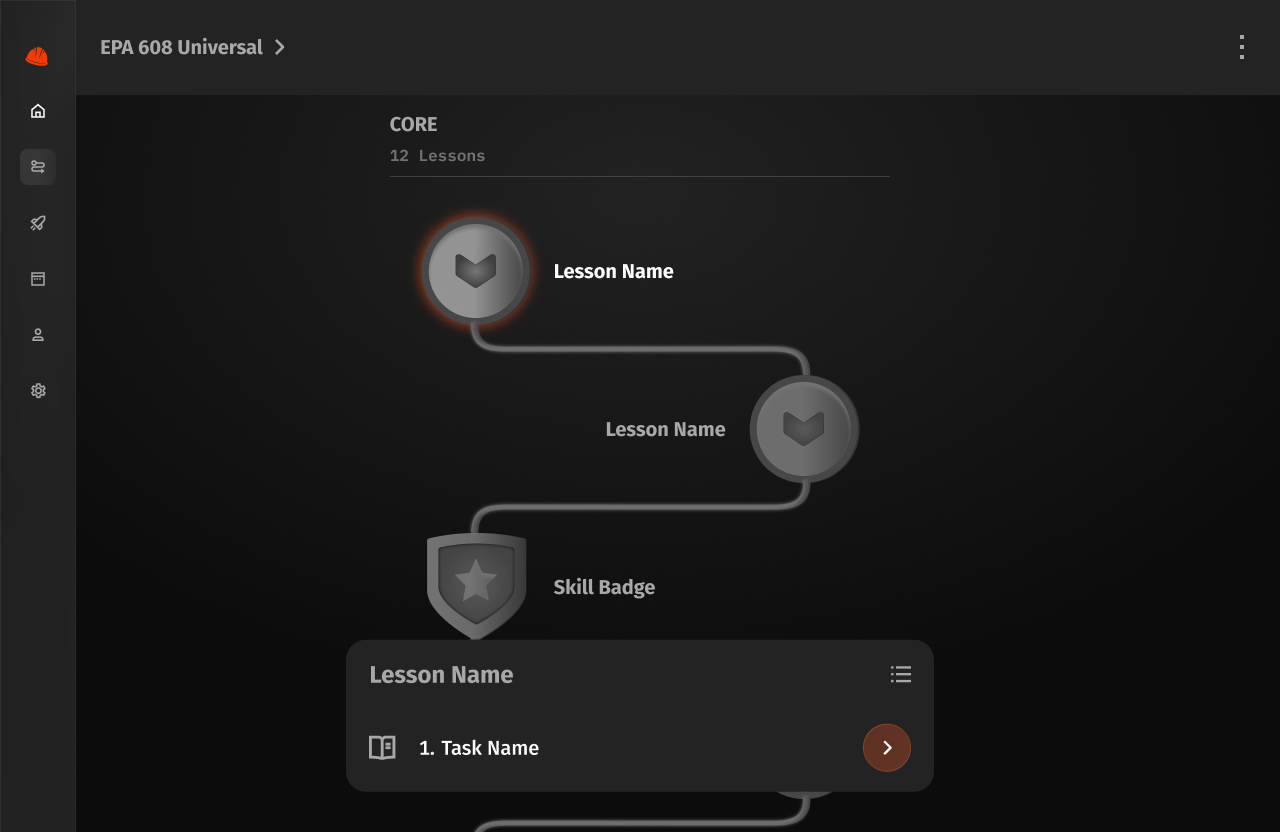
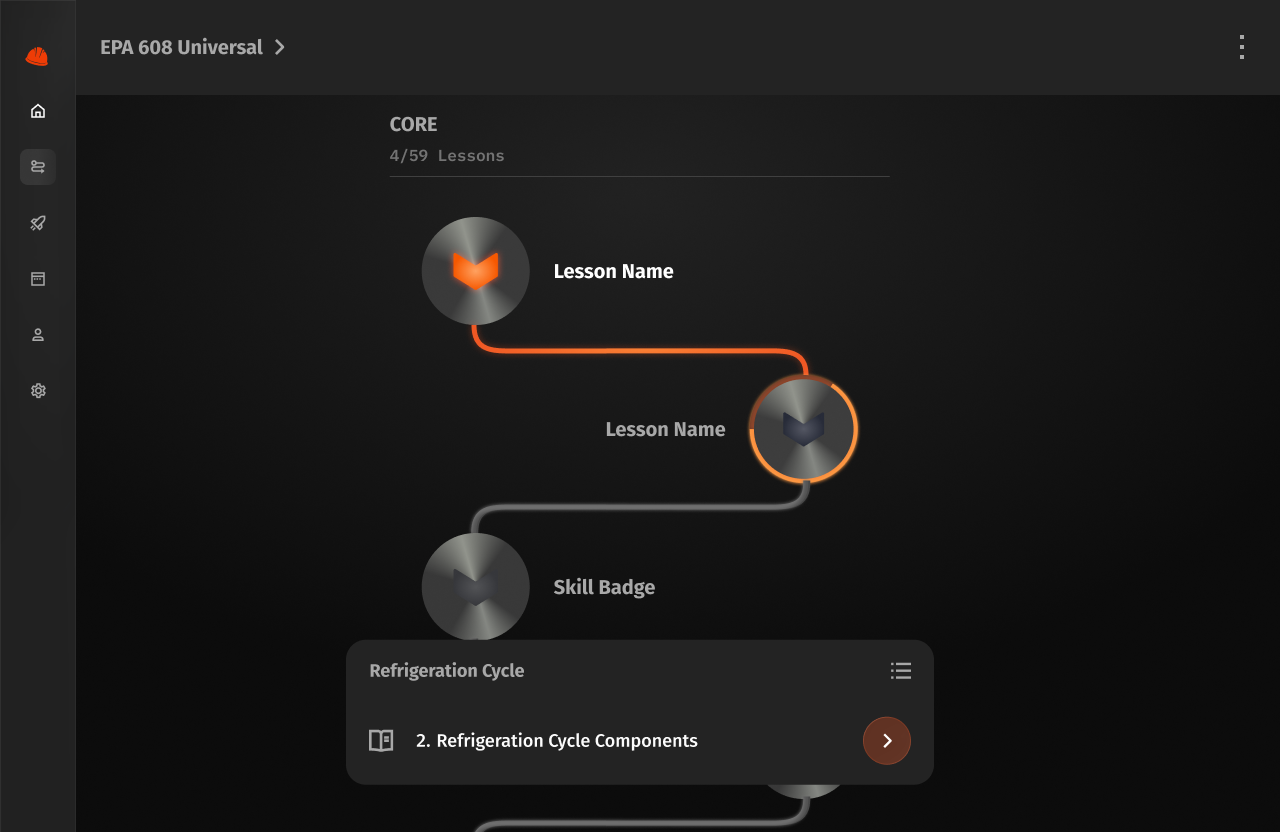
add to course view

diff --git a/skillcat.html b/skillcat.html
@@ -412,7 +412,7 @@
                     <figcaption class="sk-lineup-cap"><span class="sk-lineup-num">03</span> Overview</figcaption>
                 </figure>
                 <figure class="sk-lineup-phone">
-                    <div class="sk-lineup-frame"><img src="assets/skillcat/comparison/updated/course-tree.png" alt="Redesigned course path screen" loading="lazy"></div>
+                    <div class="sk-lineup-frame"><img src="assets/skillcat/process/evolution/course-v4.png" alt="Redesigned course path screen" loading="lazy"></div>
                     <figcaption class="sk-lineup-cap"><span class="sk-lineup-num">04</span> The path</figcaption>
                 </figure>
                 <figure class="sk-lineup-phone">
@@ -707,9 +707,10 @@
             <div class="sk-feature-switch sk-feature-switch--versions sk-feature-switch--reverse">
                 <div class="sk-feature-info">
                     <h3 class="sk-feature-screen-title">Course view</h3>
-                    <p class="sk-feature-screen-desc">Inside a course: the lesson list, your progress, and the next thing to do. The hardest balance: show everything without losing the next click.</p>
+                    <p class="sk-feature-screen-desc">Inside a course: the lesson list, your progress, and the next thing to do. The hardest balance: show everything without losing the next click. Between V1 and V2 I sketched eight directions for the path before settling on a simpler tree.</p>
                     <div class="sk-version-tabs" role="tablist" aria-label="Course view — versions">
                         <button class="sk-feature-btn sk-version-btn is-active" type="button" role="tab" aria-selected="true" aria-controls="course-panel-1" id="course-tab-1" data-flow="1">V1</button>
+                        <button class="sk-feature-btn sk-version-btn sk-version-btn--range" type="button" role="tab" aria-selected="false" aria-controls="course-panel-explore" id="course-tab-explore" data-flow="explore">V1.1 - V1.99</button>
                         <button class="sk-feature-btn sk-version-btn" type="button" role="tab" aria-selected="false" aria-controls="course-panel-2" id="course-tab-2" data-flow="2">V2</button>
                         <button class="sk-feature-btn sk-version-btn" type="button" role="tab" aria-selected="false" aria-controls="course-panel-3" id="course-tab-3" data-flow="3">V3</button>
                         <button class="sk-feature-btn sk-version-btn" type="button" role="tab" aria-selected="false" aria-controls="course-panel-4" id="course-tab-4" data-flow="4">V4</button>
@@ -727,6 +728,42 @@
                                 <li class="sk-hot" style="top:30%;left:26.1%"><button class="sk-hot-dot" type="button" aria-label="Annotation 3"></button><span class="sk-hot-note">Each node = a full course, with all sub-tasks, quizzes, and finals listed inside.</span></li>
                                 <li class="sk-hot" style="top:49.5%;left:84.8%"><button class="sk-hot-dot" type="button" aria-label="Annotation 4"></button><span class="sk-hot-note">Users must complete every step before moving to the next node.</span></li>
                             </ul>
+                        </figure>
+                    </div>
+                    <div class="sk-feature-panel" id="course-panel-explore" role="tabpanel" aria-labelledby="course-tab-explore" data-flow="explore">
+                        <figure class="sk-video sk-video--mobile sk-stack" aria-roledescription="carousel" aria-label="Course view — 8 early explorations between V1 and V2">
+                            <div class="sk-stack-pile" tabindex="0" title="Next exploration">
+                                <div class="sk-stack-card" >
+                                    <img class="sk-embed-img" src="assets/skillcat/process/evolution/course-view-initial-iterations/explore-1.png" alt="Course view exploration 1 of 8: Zig-zag path of nodes, stats bar on top." loading="lazy">
+                                </div>
+                                <div class="sk-stack-card">
+                                    <img class="sk-embed-img" src="assets/skillcat/process/evolution/course-view-initial-iterations/explore-2.png" alt="Course view exploration 2 of 8: Split view: lesson rail on the left, a winding star path on the right." loading="lazy">
+                                </div>
+                                <div class="sk-stack-card">
+                                    <img class="sk-embed-img" src="assets/skillcat/process/evolution/course-view-initial-iterations/explore-3.png" alt="Course view exploration 3 of 8: Collapsible list: each lesson row expands to show its hours." loading="lazy">
+                                </div>
+                                <div class="sk-stack-card">
+                                    <img class="sk-embed-img" src="assets/skillcat/process/evolution/course-view-initial-iterations/explore-4.png" alt="Course view exploration 4 of 8: Lessons grouped into octagon loops." loading="lazy">
+                                </div>
+                                <div class="sk-stack-card">
+                                    <img class="sk-embed-img" src="assets/skillcat/process/evolution/course-view-initial-iterations/explore-5.png" alt="Course view exploration 5 of 8: Stars sit between flag nodes on a serpentine path." loading="lazy">
+                                </div>
+                                <div class="sk-stack-card">
+                                    <img class="sk-embed-img" src="assets/skillcat/process/evolution/course-view-initial-iterations/explore-6.png" alt="Course view exploration 6 of 8: Each lesson becomes its own horizontal track of stars." loading="lazy">
+                                </div>
+                                <div class="sk-stack-card">
+                                    <img class="sk-embed-img" src="assets/skillcat/process/evolution/course-view-initial-iterations/explore-7.png" alt="Course view exploration 7 of 8: Every lesson opens into a loop of star tasks." loading="lazy">
+                                </div>
+                                <div class="sk-stack-card">
+                                    <img class="sk-embed-img" src="assets/skillcat/process/evolution/course-view-initial-iterations/explore-8.png" alt="Course view exploration 8 of 8: Zoomed into one lesson as a closed loop of tasks." loading="lazy">
+                                </div>
+                            </div>
+                            <figcaption class="sk-stack-controls">
+                                <button class="sk-stack-nav" type="button" data-dir="-1" aria-label="Previous exploration">&lsaquo;</button>
+                                <span class="sk-stack-count" aria-hidden="true"><span class="sk-stack-index">1</span> / 8</span>
+                                <button class="sk-stack-nav" type="button" data-dir="1" aria-label="Next exploration">&rsaquo;</button>
+                                <p class="sk-stack-caption" aria-live="polite">Zig-zag path of nodes, stats bar on top.</p>
+                            </figcaption>
                         </figure>
                     </div>
                     <div class="sk-feature-panel" id="course-panel-2" role="tabpanel" aria-labelledby="course-tab-2" data-flow="2">

diff --git a/skillcat.js b/skillcat.js
@@ -266,6 +266,109 @@
 })();
 
 // ============================================
+// Exploration stack — a stack of phone cards inside one version panel.
+// Click the front card / › to toss it to the back; ‹ pulls the last one
+// back in (the same animation, reversed). Fans out whenever its panel opens.
+// ============================================
+(function () {
+    var reduceMotion = window.matchMedia &&
+        window.matchMedia('(prefers-reduced-motion: reduce)').matches;
+
+    document.querySelectorAll('.sk-stack').forEach(function (deck) {
+        var stack = deck.querySelector('.sk-stack-pile');
+        var cards = Array.prototype.slice.call(deck.querySelectorAll('.sk-stack-card'));
+        var indexEl = deck.querySelector('.sk-stack-index');
+        var caption = deck.querySelector('.sk-stack-caption');
+        var panel = deck.closest('.sk-feature-panel');
+        var n = cards.length;
+        var front = 0;
+        var busy = false;
+
+        function layout() {
+            cards.forEach(function (c, i) {
+                var pos = (i - front + n) % n;
+                if (c.classList.contains('is-leaving')) return;
+                c.setAttribute('data-pos', pos <= 2 ? String(pos) : 'back');
+                c.style.zIndex = String(n - pos);
+            });
+            indexEl.textContent = String(front + 1);
+            if (caption) {
+                var text = cards[front].getAttribute('data-caption') || '';
+                caption.textContent = text;
+                caption.hidden = !text;
+            }
+        }
+
+        function snapToBack(card) {
+            // Drop the animation without a transition flash back to the front slot.
+            card.style.transition = 'none';
+            card.classList.remove('is-leaving');
+            layout();
+            void card.offsetWidth;
+            card.style.transition = '';
+        }
+
+        function step(dir) {
+            if (busy) return;
+            if (reduceMotion) { front = (front + dir + n) % n; layout(); return; }
+            busy = true;
+            if (dir > 0) {
+                var out = cards[front];
+                out.classList.add('is-leaving');
+                out.style.zIndex = String(n + 1);
+                front = (front + 1) % n;
+                layout();
+                out.addEventListener('animationend', function done() {
+                    out.removeEventListener('animationend', done);
+                    snapToBack(out);
+                    busy = false;
+                });
+            } else {
+                front = (front - 1 + n) % n;
+                var back = cards[front];
+                layout();
+                back.style.zIndex = String(n + 1);
+                back.classList.add('is-returning');
+                back.addEventListener('animationend', function done() {
+                    back.removeEventListener('animationend', done);
+                    back.classList.remove('is-returning');
+                    layout();
+                    busy = false;
+                });
+            }
+        }
+
+        stack.addEventListener('click', function () { step(1); });
+        stack.addEventListener('keydown', function (e) {
+            if (e.key === 'ArrowRight' || e.key === 'Enter' || e.key === ' ') step(1);
+            else if (e.key === 'ArrowLeft') step(-1);
+            else return;
+            e.preventDefault();
+        });
+        deck.querySelectorAll('.sk-stack-nav').forEach(function (b) {
+            b.addEventListener('click', function () { step(Number(b.getAttribute('data-dir'))); });
+        });
+
+        // Fan out each time the panel is shown; collapse when it's hidden.
+        function sync() {
+            if (panel && !panel.classList.contains('is-active')) {
+                deck.classList.remove('is-fanned');
+                return;
+            }
+            if (deck.classList.contains('is-fanned')) return;
+            requestAnimationFrame(function () {
+                requestAnimationFrame(function () { deck.classList.add('is-fanned'); });
+            });
+        }
+        if (panel) {
+            new MutationObserver(sync).observe(panel, { attributes: true, attributeFilter: ['class'] });
+        }
+        layout();
+        sync();
+    });
+})();
+
+// ============================================
 // Iteration scrubber — drag V1 → V2 → V3 and all 5 phones cross-fade
 // together. Drives a native range input (for keyboard + drag) and tweens
 // to a stop when a stop button is clicked.

diff --git a/skillcat.css b/skillcat.css
@@ -1350,6 +1350,154 @@ button,
     border-color: var(--sk-orange);
 }
 
+/* Range pill (V1.1 - V1.99) — keep its label on one line. */
+.sk-version-btn--range {
+    white-space: nowrap;
+}
+
+/* ---- Exploration stack: the 8 early course-view directions stacked in the same
+   phone footprint. JS sets --pos on each card (0 = front); the next two peek out
+   behind, fanned away from the info column. .is-fanned is added when the panel
+   opens so the stack spreads from a single card; removing it collapses it back. ---- */
+.sk-stack-pile {
+    position: relative;
+    width: 82%;
+    margin-inline: auto;
+    aspect-ratio: 9 / 19.5;
+    cursor: url('assets/pointer.cur'), pointer;
+    outline: none;
+}
+.sk-stack-pile:focus-visible .sk-stack-card[data-pos="0"] {
+    box-shadow: 0 0 0 3px var(--sk-orange);
+}
+
+.sk-stack-card {
+    --pos: 0;
+    --dx: 0%;
+    --dy: 0%;
+    --rot: 0deg;
+    --scale: 1;
+    position: absolute;
+    inset: 0;
+    overflow: hidden;
+    background: #05101f;
+    border: 8px solid #000;
+    border-radius: 32px;
+    box-shadow: 0 18px 40px rgba(0, 0, 0, 0.45);
+    transform-origin: 50% 90%;
+    transform: translate(var(--dx), var(--dy)) rotate(var(--rot)) scale(var(--scale));
+    transition: transform 0.5s cubic-bezier(0.16, 1, 0.3, 1), opacity 0.35s ease, filter 0.35s ease;
+}
+.sk-stack-card .sk-embed-img {
+    object-position: top;
+}
+
+.sk-stack.is-fanned .sk-stack-card[data-pos="1"] {
+    --dx: -9%; --dy: 1.5%; --rot: -4deg; --scale: 0.96;
+    filter: brightness(0.6);
+}
+.sk-stack.is-fanned .sk-stack-card[data-pos="2"],
+.sk-stack.is-fanned .sk-stack-card[data-pos="back"] {
+    --dx: -17%; --dy: 3%; --rot: -8deg; --scale: 0.92;
+    filter: brightness(0.4);
+}
+.sk-stack-card[data-pos="back"] {
+    opacity: 0;
+}
+.sk-stack:not(.is-fanned) .sk-stack-card:not([data-pos="0"]) {
+    filter: brightness(0.4);
+}
+
+/* Forward: the old front card tosses out to the left, then settles at the back.
+   Backward: the reverse — the new front card flies in from that same spot. */
+.sk-stack-card.is-leaving {
+    animation: sk-stack-toss 0.45s cubic-bezier(0.4, 0, 0.2, 1) both;
+}
+.sk-stack-card.is-returning {
+    animation: sk-stack-toss 0.45s cubic-bezier(0.4, 0, 0.2, 1) reverse both;
+}
+@keyframes sk-stack-toss {
+    from { transform: translate(0, 0) rotate(0deg) scale(1); opacity: 1; }
+    to   { transform: translate(-70%, 4%) rotate(-14deg) scale(0.9); opacity: 0; }
+}
+
+.sk-stack-controls {
+    display: grid;
+    grid-template-columns: auto 1fr auto;
+    align-items: center;
+    row-gap: 10px;
+    margin-top: 20px;
+}
+.sk-stack-nav {
+    appearance: none;
+    -webkit-appearance: none;
+    width: 36px;
+    height: 36px;
+    border: none;
+    border-radius: 8px;
+    background: #232323;
+    color: var(--sk-muted);
+    font-size: var(--text-20);
+    line-height: 1;
+    cursor: url('assets/pointer.cur'), pointer;
+    transition: background 0.18s ease, color 0.18s ease;
+}
+.sk-stack-nav:hover,
+.sk-stack-nav:focus-visible {
+    color: #fff;
+    background: var(--sk-surface-2);
+    outline: none;
+}
+.sk-stack-count {
+    justify-self: center;
+    font-family: 'Space Mono', monospace;
+    font-size: var(--text-13);
+    letter-spacing: 0.12em;
+    color: var(--sk-faint);
+}
+.sk-stack-index {
+    color: #fff;
+}
+.sk-stack-caption {
+    grid-column: 1 / -1;
+    margin: 0;
+    min-height: 2.9em;
+    text-align: center;
+    font-size: var(--text-14);
+    line-height: 1.45;
+    color: var(--sk-muted);
+}
+
+/* The row with the range pill holds five tabs — too wide for the 400px info
+   column (and a phone) at the default padding, so its pills share the row. */
+.sk-version-tabs:has(.sk-version-btn--range) {
+    gap: 8px;
+}
+.sk-version-tabs:has(.sk-version-btn--range) .sk-version-btn {
+    flex: 1 1 auto;
+    min-width: 0;
+    padding: 10px 12px;
+}
+@media (max-width: 480px) {
+    .sk-version-tabs:has(.sk-version-btn--range) {
+        gap: 6px;
+    }
+    .sk-version-tabs:has(.sk-version-btn--range) .sk-version-btn {
+        padding: 10px 8px;
+        letter-spacing: 0.06em;
+    }
+}
+
+@media (prefers-reduced-motion: reduce) {
+    .sk-stack-card {
+        transition: opacity 0.2s ease;
+    }
+    .sk-stack-card.is-leaving,
+    .sk-stack-card.is-returning {
+        animation: none;
+    }
+}
+
 /* The phone in the versions variant — sized to match the Learner Redesign phone. */
 .sk-feature-switch--versions .sk-feature-stage .sk-video--mobile {
     width: 100%;
